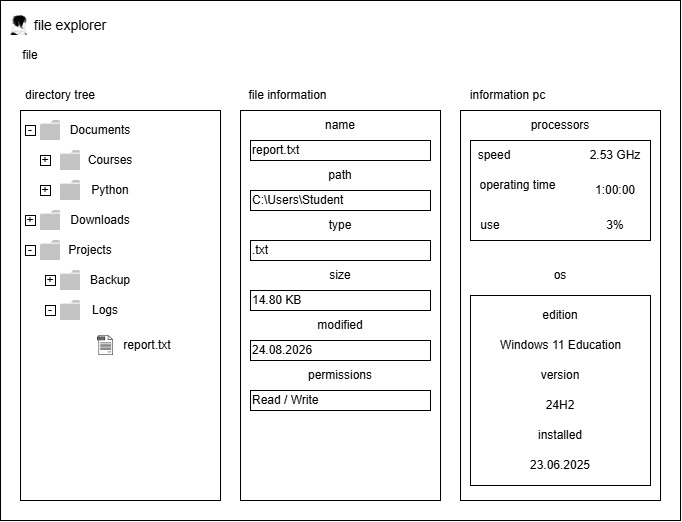
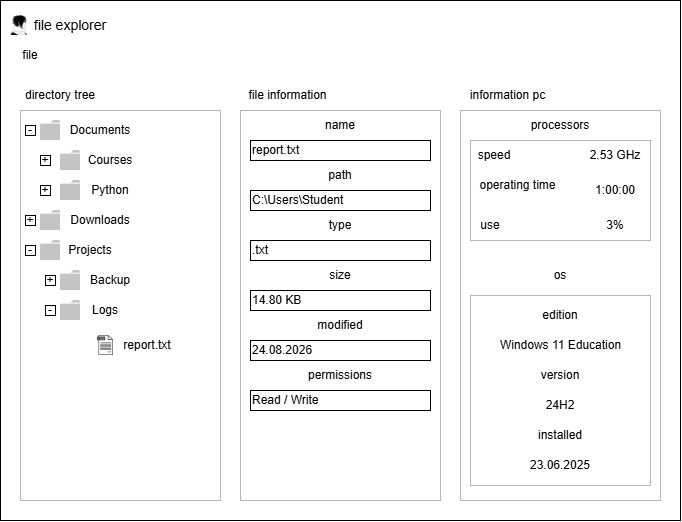
couleur pour les frames et réajustement
Couleurs grises pour les contours des frames pour l'info fichiers et pc, réajustement dans les fonctions. Nouvelle version de la maquette.

diff --git a/fileexplorer.py b/fileexplorer.py
@@ -56,9 +56,7 @@ def display_file_info(event):
     size = f"{size_kb:.2f} KB"
 
     # date de modification
-    modified = datetime.fromtimestamp(
-        file_info.st_mtime
-    ).strftime("%d.%m.%Y")
+    modified = datetime.fromtimestamp(file_info.st_mtime).strftime("%d.%m.%Y")
 
     # permissions
     permissions = []
@@ -128,22 +126,15 @@ def get_cpu_info():
 # informations Windows
 def get_os_info():
     try:
-        key = winreg.OpenKey(
-            winreg.HKEY_LOCAL_MACHINE,
-            r"SOFTWARE\Microsoft\Windows NT\CurrentVersion"
-        )
+        key = winreg.OpenKey(winreg.HKEY_LOCAL_MACHINE,r"SOFTWARE\Microsoft\Windows NT\CurrentVersion")
         edition = winreg.QueryValueEx(key, "ProductName")[0]
         try:
             version = winreg.QueryValueEx(key, "DisplayVersion")[0]
         except:
             version = "Unknown"
-        install_timestamp = winreg.QueryValueEx(
-            key,
-            "InstallDate"
-        )[0]
-        install_date = datetime.fromtimestamp(
-            install_timestamp
-        ).strftime("%d.%m.%Y")
+
+        install_timestamp = winreg.QueryValueEx(key,"InstallDate")[0]
+        install_date = datetime.fromtimestamp(install_timestamp).strftime("%d.%m.%Y")
         return edition, version, install_date
     except Exception:
         return "Unknown", "Unknown", "Unknown"
@@ -212,7 +203,7 @@ tree.pack(fill="both", expand=True, padx=5, pady=5)
 tree.bind("<<TreeviewSelect>>", display_file_info)
 
 # frame avec contour gris pour les informations sur le fichier
-content_info = tk.Frame(frame_info, bg="white")
+content_info = tk.Frame(frame_info, highlightbackground="gray", highlightthickness=1, bg="white")
 content_info.pack(fill="both", expand=True, padx=5, pady=5)
 
 # frame pour les informations sur le fichier
@@ -241,7 +232,7 @@ entry_permissions = tk.Entry(content_info, state="readonly")
 entry_permissions.pack(fill="x", padx=10, pady=(0,10))
 
 # frame pour les informations sur le pc
-content_pc = tk.Frame(frame_pc, bg="white")
+content_pc = tk.Frame(frame_pc, highlightbackground="gray", highlightthickness=1, bg="white")
 content_pc.pack(fill="both", expand=True, padx=5, pady=5)
 
 # frame pour les informations sur le processeur
@@ -282,7 +273,7 @@ lbl_usage.pack(side="right")
 
 # frame pour les informations sur le système d'exploitation
 frame_os = tk.LabelFrame(content_pc, text="os", bg="white")
-frame_os.pack(fill="both", expand=True, padx=10, pady=(0, 10))
+frame_os.pack(fill="both", expand=True, padx=10, pady=(0, 200))
 frame_os.config(height=220)
 frame_os.pack_propagate(False)
 
